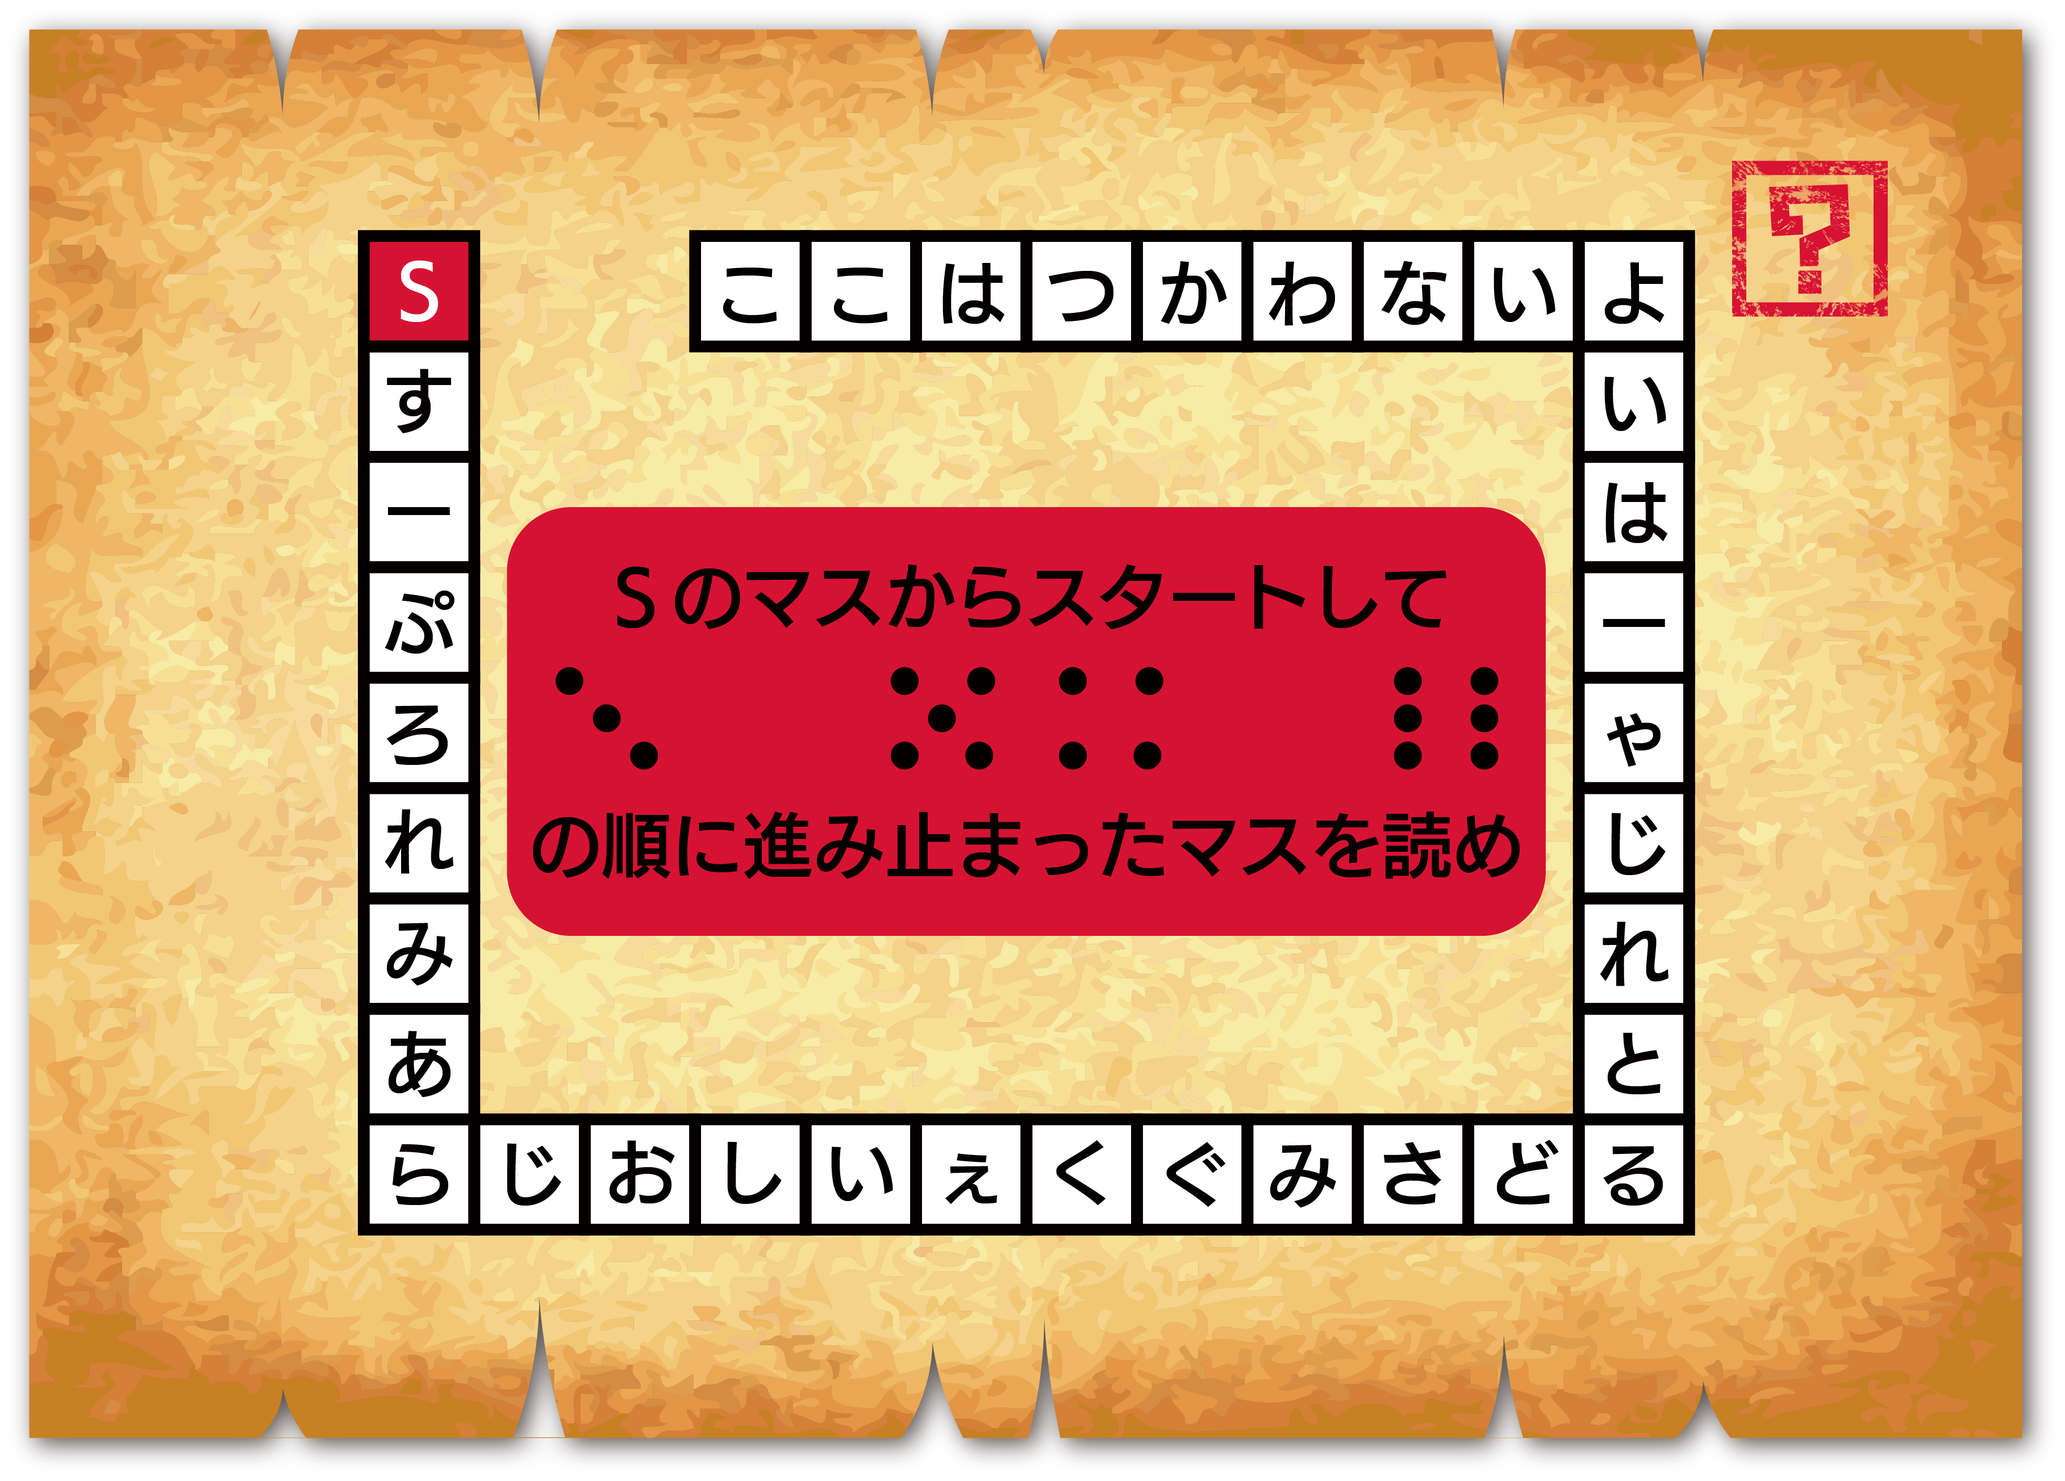
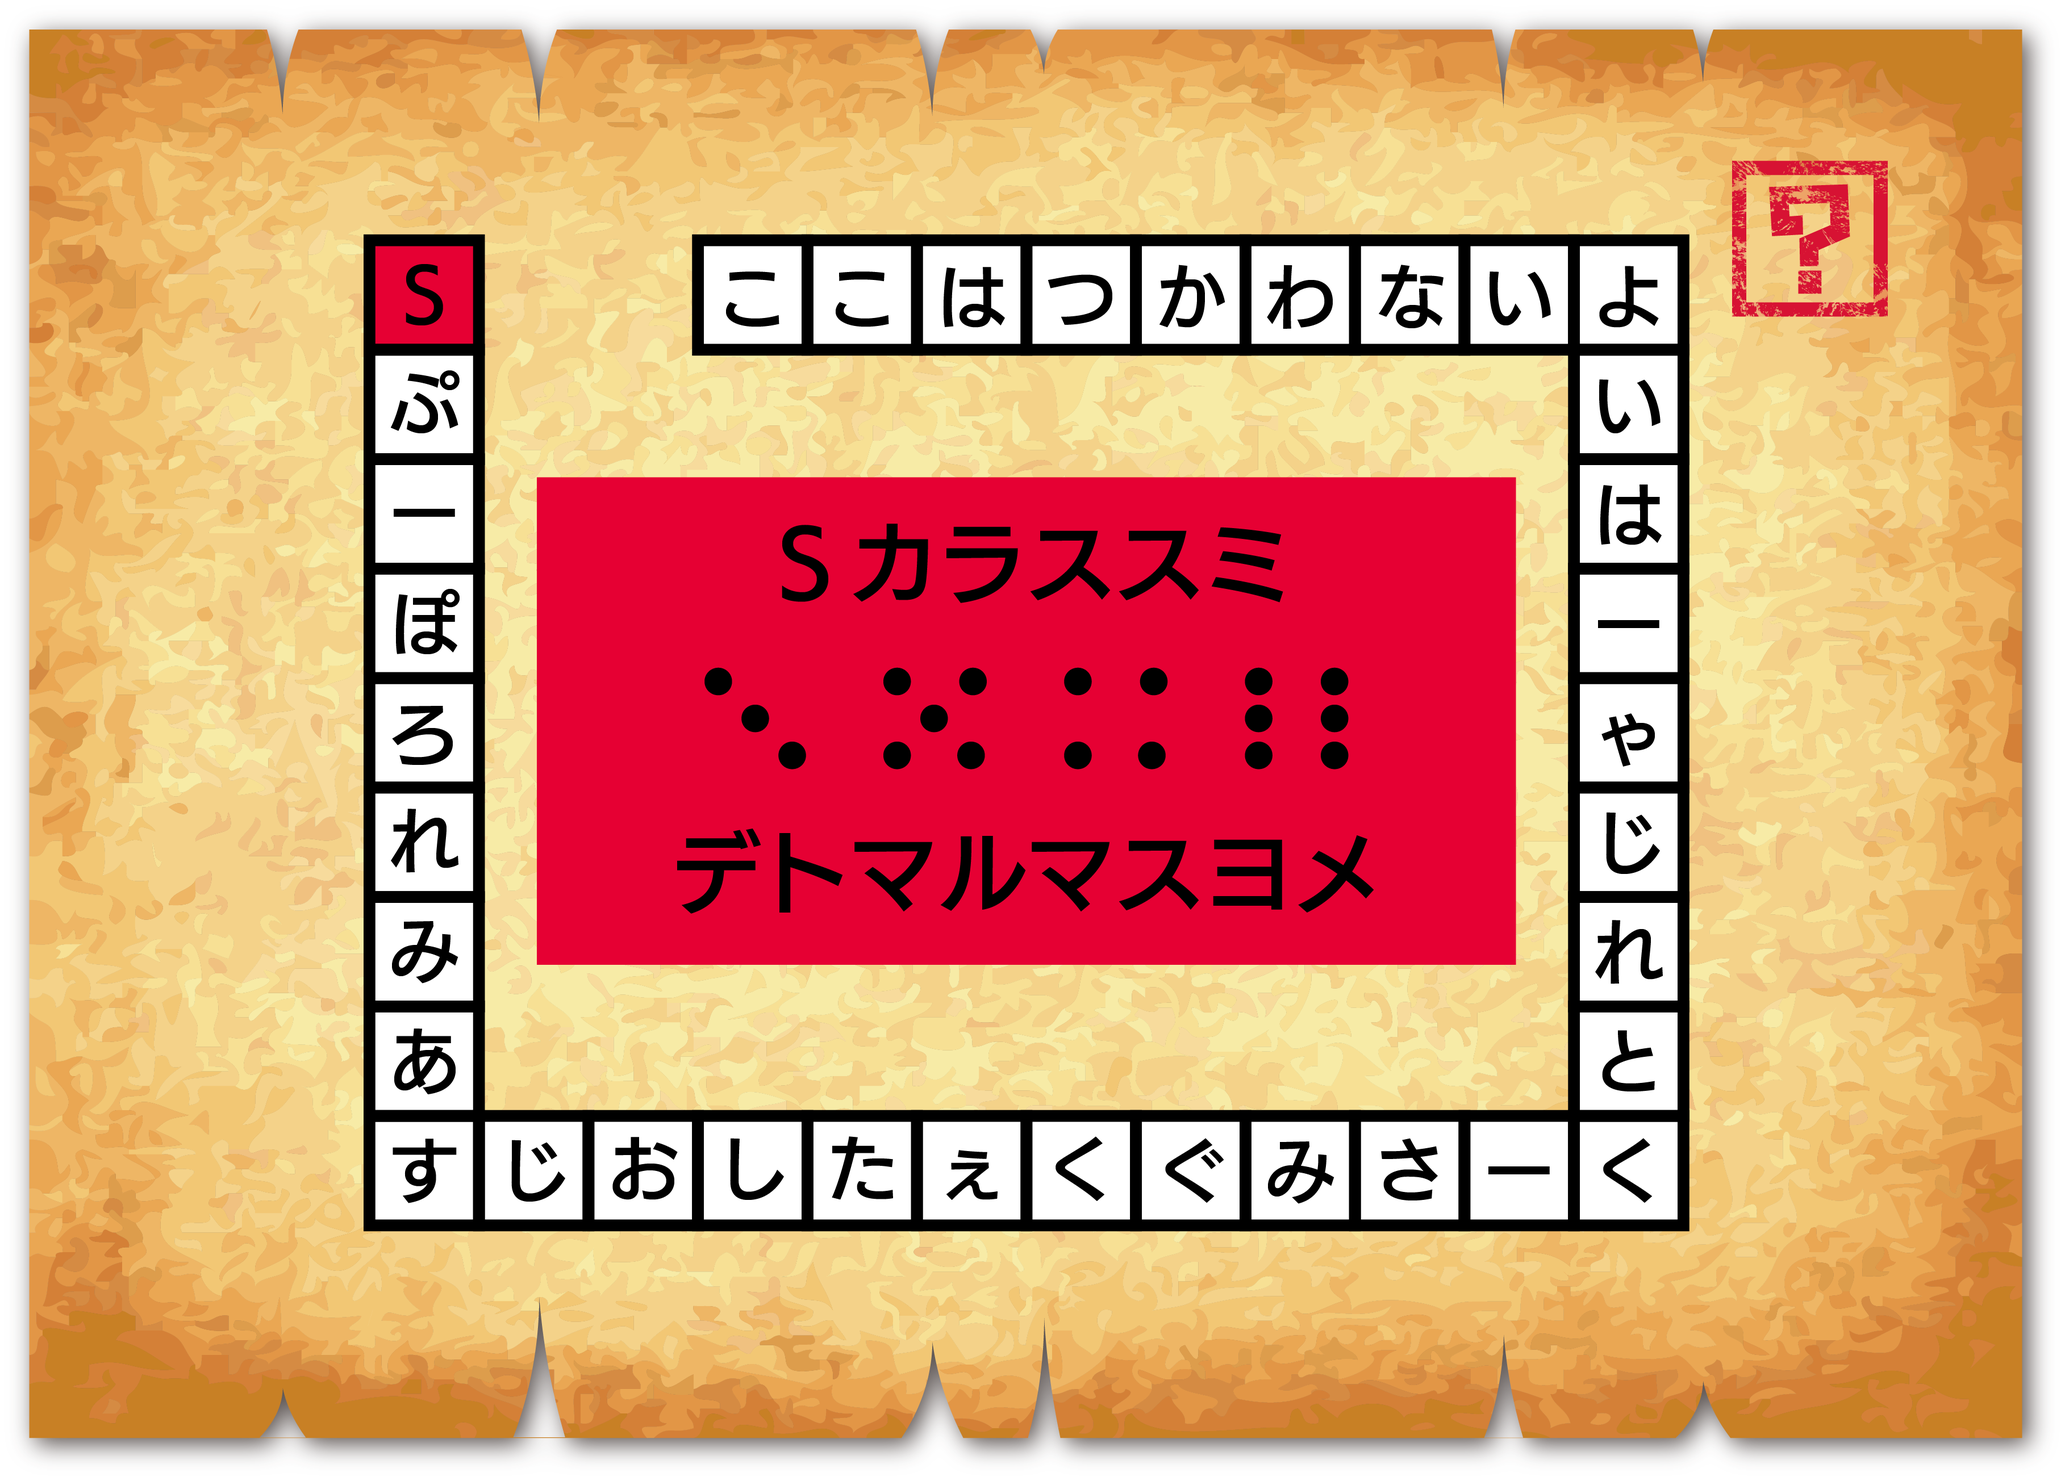
fix_images

Changed region(s): [[0.1554, 0.1553, 0.8393, 0.8386]]

diff --git a/カフェ謎/rpglike.js b/カフェ謎/rpglike.js
@@ -287,14 +287,14 @@ var quiz_list ={
     5:{
         magics:{
             [magicType.NONE]:{
-                image:"images/quiz/5_剣盾.png",
-                answer:"ソフト",
-                hint:["上の四角には攻撃と防御を表す言葉、下の四角には攻撃するものと防御するものが埋まるようです。","上は「ブロック」と「アタック」、下は「シールド」と「ソード」を表しています。"],
+                image:"images/quiz/5_姉妹.png",
+                answer:"ネガオ",
+                hint:["１２３＝あうとであることから上の１〜３にはあ、う、とがそれぞれ入るようです。この図の形や色と文字のヒントから何が入るか考えてみましょう。","これは家系図を表していました。文字のヒントと色の情報から右側にはあね、左側にはおとうとがあてはまります"],
             },
-            [magicType.ADD_CHAR]:{
-                image:"images/quiz/5_剣盾_四角.png",
-                answer:"レフト",
-                hint:"スクエアを足すことで「ソード」を「ブレード」と言い換えることができます。",
+            [magicType.RED]:{
+                image:"images/quiz/5_姉妹_色.png",
+                answer:"ネガイ",
+                hint:"カラーを使うことでおとうとをいもうとにすることができます。",
                 place:{
                     x: 50, y: 54,  // 座標%
                     w: 12, h: 10   // サイズ%
@@ -325,18 +325,9 @@ var quiz_list ={
     7:{
         magics:{
             [magicType.NONE]:{
-                image:"images/quiz/7_反転文字.png",
-                answer:"ニモノ",
-                hint:["右側の問題文は｢コレハナニ？｣と書かれています。どういった規則があるかを考えてみましょう。","不思議な図形は、半分に割った左側を見る法則でした。"],
-            },
-            [magicType.ADD_CHAR]:{
-                image:"images/quiz/7_反転文字_四角.png",
-                answer:"エモノ",
-                hint:"スクエアを使って1文字目を｢エ｣にします。",
-                place:{
-                    x: 36, y: 23,  // 座標%
-                    w: 10, h: 14   // サイズ%
-                }
+                image:"images/quiz/7_曜日.png",
+                answer:"アシタ",
+                hint:["それぞれ漢字に変換して漢字に変換してみましょう。「鏡」の左半分を＋１すると「境」になるようです。","漢字に変換して考えると、「金」に＋１で「土」、「月」に＋３で「木」となる事から、数字の分だけ曜日を進めればいいことが分かります。"],
             }
         }
         
@@ -470,14 +461,14 @@ var quiz_list ={
     14:{
         magics:{
             [magicType.NONE]:{
-                image:"images/quiz/14_上下文字つなぎ.png",
-                answer:"カイフク",
-                hint:["左下にある｢土｣は｢堂｣しか作れません。｢堂｣の上パーツが消えることで1通りしか結べないものがさらに見つかります。","十が立と組み合わさって｢辛｣にしかなれず、そこから考えると｢貿｣と｢替｣ができます。"],
+                image:"images/quiz/14_色の名前.png",
+                answer:"フリー",
+                hint:["三角形の印は、50音で一つ進めることを表しているようです。","一行目には「ブラウン」、二行目には「ブルー」が埋まります。"],
             },
-            [magicType.ADD_CHAR]:{
-                image:"images/quiz/14_上下文字つなぎ_四角.png",
-                answer:"モザイク",
-                hint:"スクエアを使って｢十｣を｢田｣にします。すると｢堂｣、｢留｣、｢賛｣、｢音｣ができます。",
+            [magicType.CHANGE_CHAR]:{
+                image:"images/quiz/14_色の名前_字.png",
+                answer:"クリー",
+                hint:"文字トランスを使うと、1行目は「グリーン」、二行目は「グレー」が埋まります。",
                 place:{
                     x: 68, y: 77,  // 座標%
                     w: 10, h: 10   // サイズ%
@@ -536,19 +527,19 @@ var quiz_list ={
     17:{
         magics:{
             [magicType.NONE]:{
-                image:"images/quiz/17_道路.png",
-                answer:"ドローン",
-                hint:["赤矢印と青矢印が通る言葉はどちらも下のイラストを表しているようです。","｢道路(どうろ)｣は英語で｢ロード｣と言うことができます。赤矢印に｢どうろ｣、青矢印に｢ろーど｣を埋めてみましょう。"],
-            }
+                image:"images/quiz/17_v.png",
+                answer:"エール",
+                hint:["それぞれの色の矢印の形に注目してみましょう。たとえば赤矢印は真ん中に｢ン｣があって｢文意(ブンイ)｣になっており、赤矢印は｢ブイ｣を表しているようです。","各矢印はその矢印の形のアルファベットと対応しているようです。黒矢印は｢エル(L)｣に対応しているため、真ん中に｢ー｣が入ります"],
+            },
         }
         
     },
     18:{
         magics:{
             [magicType.NONE]:{
-                image:"images/quiz/18_v.png",
-                answer:"エール",
-                hint:["それぞれの色の矢印の形に注目してみましょう。たとえば赤矢印は真ん中に｢ン｣があって｢文意(ブンイ)｣になっており、赤矢印は｢ブイ｣を表しているようです。","各矢印はその矢印の形のアルファベットと対応しているようです。黒矢印は｢エル(L)｣に対応しているため、真ん中に｢ー｣が入ります"],
+                image:"images/quiz/18_間.png",
+                answer:"ヤミ",
+                hint:["前後の文から、点線がついた四角に入りそうな漢字を推測してみましょう。構成する二つの漢字のうちの一方は「門」です。","四角に｢間｣を入れると、｢間を構成する二つの漢字の間に立を入れてできる漢字は？｣という分が出来上がります。"],
             },
         }
         
@@ -556,24 +547,29 @@ var quiz_list ={
     19:{
         magics:{
             [magicType.NONE]:{
-                image:"images/quiz/19_間.png",
-                answer:"ヤミ",
-                hint:["前後の文から、点線がついた四角に入りそうな漢字を推測してみましょう。構成する二つの漢字のうちの一方は「門」です。","四角に｢間｣を入れると、｢間を構成する二つの漢字の間に立を入れてできる漢字は？｣という分が出来上がります。"],
+                image:"images/quiz/19_方位.png",
+                answer:"ノウド",
+                hint:["4つの方向を表す言葉を考えてみましょう。","4つの単語は4方位を表します。右には「イースト」が埋まるので、そこから時計回りに「サウス」「ウエスト」「ノース」が埋まります。"],
             },
+            [magicType.CHANGE_CHAR]:{
+                image:"images/quiz/19_方位_字.png",
+                answer:"サイド",
+                hint:"文字トランスを使うと、右には「ウエスト」が埋まるので、そこから時計回りに「ノース」「イースト」「サウス」が埋まります。",
+            }
         }
         
     },
     20:{
         magics:{
             [magicType.NONE]:{
-                image:"images/quiz/20_数字埋め.png",
-                answer:["オーブン","OVEN"],
-                hint:["4つの数字は英単語にして埋めてみましょう。","文字数の関係から一番下にはONEが入り、その上にはTHREEが入ります。同様に考えていくと答えが出てきます。"],
+                image:"images/quiz/20_県名.png",
+                answer:"アキス",
+                hint:["ケンをつくるとはどういうことを表しているかを考えてみましょう。どうやら47個あるものが関係しているようです。","｢ケンをつくる｣とは県名をそれぞれつくるということでした。順番にアオモリ、アキタ、シズオカができます。"],
             },
-            [magicType.ADD_CHAR]:{
-                image:"images/quiz/20_数字埋め_四角.png",
-                answer:["ツリー","TREE"],
-                hint:"スクエアを使って｢1｣を｢10｣にします。一番下にはTENが入り、その上にはSEVENが入ります。",
+            [magicType.CHANGE_CHAR]:{
+                image:"images/quiz/20_県名_字.png",
+                answer:"アイス",
+                hint:"文字トランスを使うと2行目にあてはまるものがアイチになります。",
                 place:{
                     x: 77, y: 35,  // 座標%
                     w: 8, h: 10   // サイズ%
@@ -1779,6 +1775,7 @@ function monster_hint_select(){
             var monster_hint = document.getElementById(monster + "_hint");
             monster_hint.style.display = 'block';
         }
+        b=monster_list[monster].finish;
     }
     popTitling(pop_tl);
     popTexting(pop_tx);
@@ -1925,6 +1922,7 @@ function closeMenu(nashi){
     document.querySelector(".menu_button").classList.toggle('active');
     const menu_back = document.getElementById("menu_back");
     menu_back.style.display = 'none';
+    closeExplains();
 }
 
 
@@ -2095,6 +2093,8 @@ function makeBook(e){
     
     
 }
+
+
 
 
 
@@ -2380,6 +2380,43 @@ function bookShowImg(n,bookType){
     
 }
 
+
+
+
+
+
+function openExplains(){
+    const menu_explain_box = document.getElementById("menu_explain_box");
+    if(menu_explain_box.style.display=="block"){
+        menu_explain_box.style.display="none";
+    }else{
+        menu_explain_box.style.display="block";
+    }
+}
+
+
+
+
+function closeExplains(){
+    const menu_explain_box = document.getElementById("menu_explain_box");
+    menu_explain_box.style.display="none";
+}
+
+
+
+function openExplainSheet(n){
+    explain_img = document.getElementById("explain_image");
+    explain_img.src = "images/explains/" + n + ".png";
+    explain_sheet = document.getElementById("explain_sheet");
+    explain_sheet.style.display = "block";
+}
+
+
+
+function closeExplainSheet(){
+    explain_sheet = document.getElementById("explain_sheet");
+    explain_sheet.style.display = "none";
+}
 
 
 

diff --git a/カフェ謎/rpglike.css b/カフェ謎/rpglike.css
@@ -612,7 +612,7 @@ h1 {
 
 
 
-.book_content{
+.book_content, #explain_content{
     position: relative;
     width : auto;
     aspect-ratio:2048/1536;
@@ -626,7 +626,7 @@ h1 {
     background-color: white;
 }
 
-.book_base_image {
+.book_base_image, #explain_image {
     position:absolute;
     width: 100%; /* 画像を親要素に合わせる */
     height: 100%; /* 画像を親要素に合わせる */
@@ -682,7 +682,7 @@ h1 {
 
 
 
-.book_sheet {
+.book_sheet, #explain_sheet{
     position: fixed;
     top: 0;
     left: 10%;
@@ -774,7 +774,7 @@ h1 {
     max-width: 160px;
     height: auto;
     position: absolute;
-    top: 5%;
+    top: 2%;
     left: 50%;
     transform: translateX(-50%);
     -webkit- transform: translateX(-50%);
@@ -806,7 +806,7 @@ h1 {
 
 
 
-#button_move_to_rocky {
+#button_move_to_rocky, #button_move_to_castle {
     width:10%;
     max-width: 80px;
     height: auto;
@@ -819,42 +819,16 @@ h1 {
 
 
 
-#button_back_to_prairie {
+#button_back_to_prairie, #button_back_to_rocky {
     width:10%;
     max-width: 80px;
     height: auto;
     position: absolute;
-    bottom: 10%;
+    bottom: 5%;
     left: 50%;
-    transform: translateY(-50%) translateX(-50%);
-    -webkit- transform: translateY(-50%) translateX(-50%);
+    transform: translateX(-50%);
+    -webkit- transform: translateX(-50%);
 }
-
-
-#button_move_to_castle {
-    width:10%;
-    max-width: 80px;
-    height: auto;
-    position: absolute;
-    top: 10%;
-    left: 50%;
-    transform: translateY(-50%) translateX(-50%);
-    -webkit- transform: translateY(-50%) translateX(-50%);
-}
-
-#button_back_to_rocky {
-    width:10%;
-    max-width: 80px;
-    height: auto;
-    position: absolute;
-    bottom: 10%;
-    left: 50%;
-    transform: translateY(-50%) translateX(-50%);
-    -webkit- transform: translateY(-50%) translateX(-50%);
-}
-
-
-
 
 
 
@@ -1363,7 +1337,7 @@ h1 {
 
 
 #B3{
-    background-image: url('images/background/祭壇_戦闘画面.jpg');
+    background-image: url('images/background/祭壇_戦闘画面.png');
     background-size: cover; /* 背景画像を要素のサイズに合わせて表示 */
     background-position: bottom;
     position: fixed;

diff --git a/カフェ謎/rpglike.html b/カフェ謎/rpglike.html
@@ -69,7 +69,12 @@
                     <p id="menu_point">pt</p>
                     <progress value="0" max="100" id="menu_point_bar"></progress>
                 </li>
-                <li id="menu_explain">説明</li>
+                <li id="menu_explain" onclick="openExplains()">説明</li>
+                <span id="menu_explain_box" style="display: none">
+                    <li id="menu_story_explain" class="menu_explains" onclick="openExplainSheet('')">　ストーリー設定</li>
+                    <li id="menu_quiz_explain" class="menu_explains" onclick="openExplainSheet('謎画面の説明')">　謎画面について</li>
+                    <li id="menu_battle_explain" class="menu_explains" onclick="openExplainSheet('戦闘画面の説明')">　戦闘画面について</li>
+                </span>
                 <li id="menu_how_to_win" onclick="monster_hint_select()">倒し方のヒント</li>
                 <li id="menu_monster" onclick="openBook('monster_book')">モンスター図鑑</li>
                 <li id="menu_magic_list" onclick="openBook('magic_book')">魔法図鑑</li>
@@ -147,11 +152,11 @@
             </div>
             <p onclick="closeBook('monster_book')" class="closeButton">▷戻る</p>
         </div>
-        <script>
+        <!--<script>
             document.getElementById("monster_book").addEventListener("click", function(e) {
                 makeBook(e);
             });
-        </script>
+        </script>-->
         
         
         <div class="book_sheet" id="magic_book" style="display: none">
@@ -163,6 +168,13 @@
             <p onclick="closeBook('magic_book')" class="closeButton">▷戻る</p>
         </div>
         
+        
+        <div id="explain_sheet" style="display: none">
+            <div id="explain_content">
+                <img src="" alt="説明" id="explain_image">
+            </div>
+            <p onclick="closeExplainSheet()" class="closeButton">▷戻る</p>
+        </div>
         
     
         
